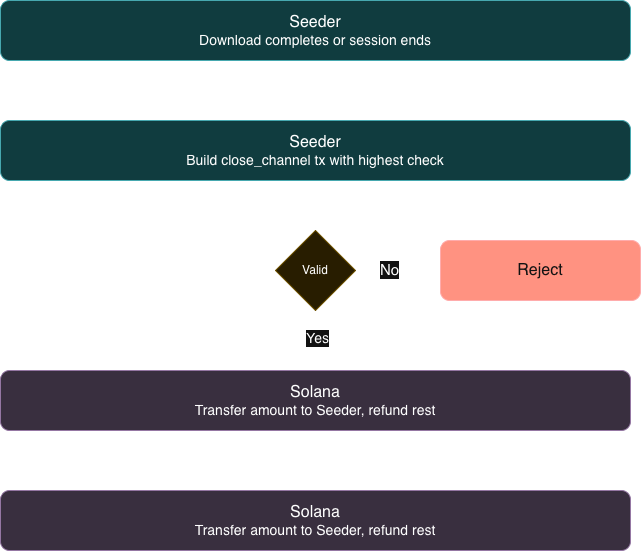
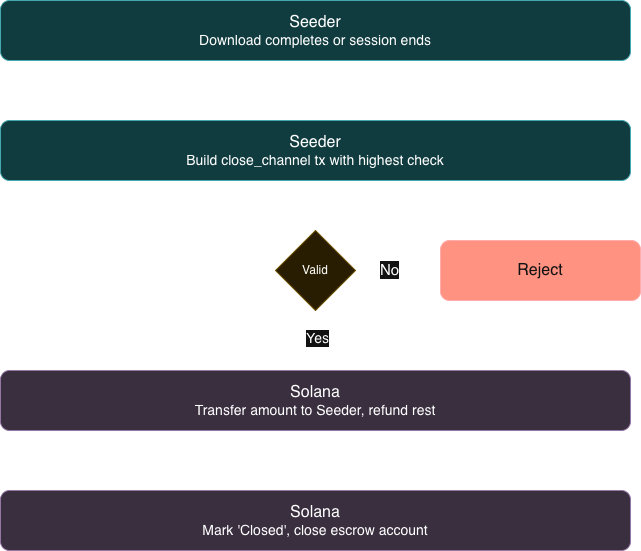
added handshake phase

diff --git a/docs/architecture-diagram.md b/docs/architecture-diagram.md
@@ -41,6 +41,10 @@ Memo program attaches privacy-preserving session_hash to channel opening transac
 
 ## User Interaction Flow
 
+### Handshake & ECDH Key Exchange
+
+![exchange](./images/exchange.png)
+
 ### Open Channel (Deposit)
 
 ![open_channel](./images/open_channel.png)
@@ -63,7 +67,7 @@ Memo program attaches privacy-preserving session_hash to channel opening transac
 ![data-flow](./images/flow.png)
 
 **Cost Calculation**:
-cost = (bytes _ 1,048,576) _ price_per_mb
+cost = (bytes / 1,048,576) \_ price_per_mb
 Payment checks are off-chain (no RPC calls during transfer)
 
 On-chain cost: 2 transactions total (open + close)
